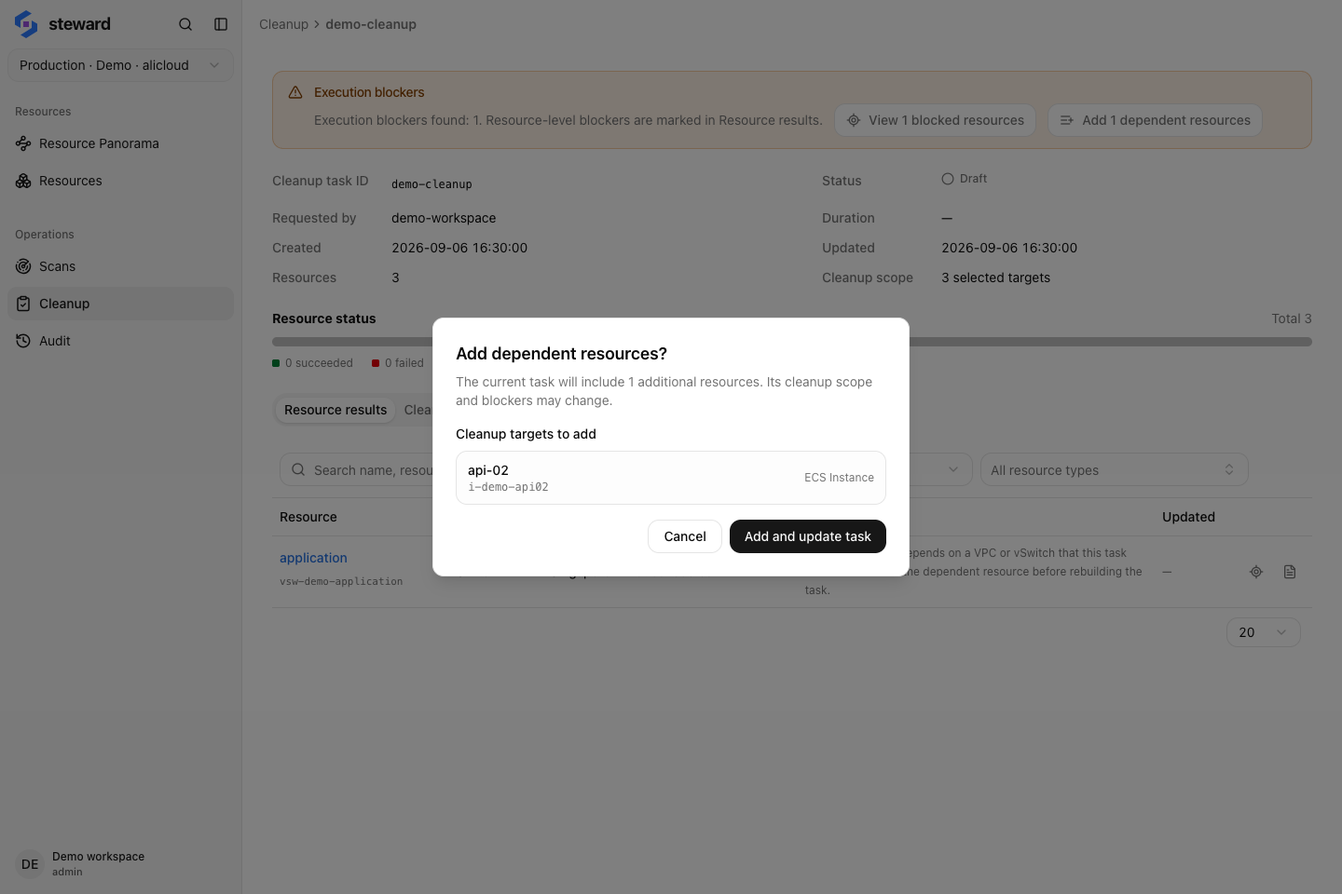
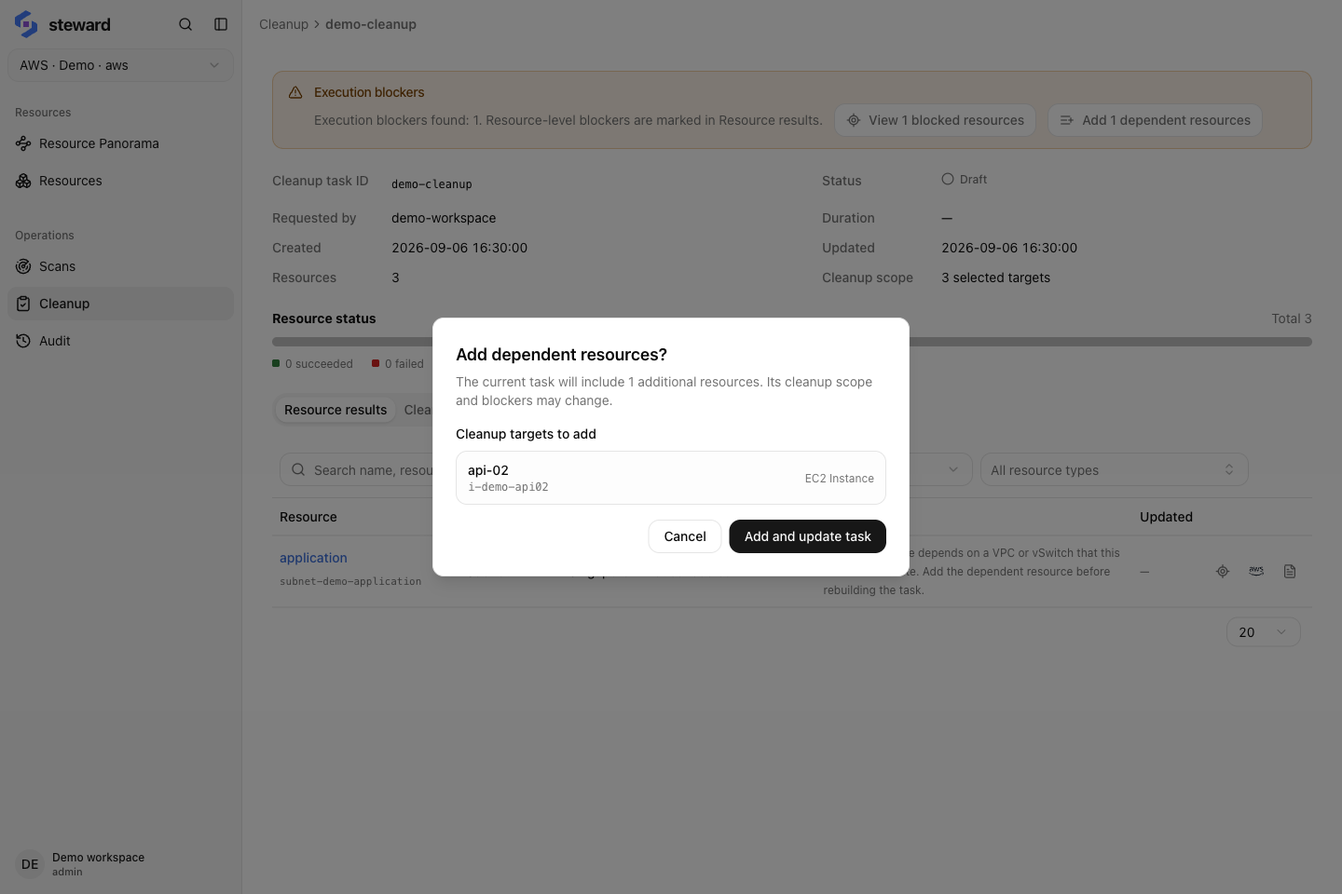
Localize cloud examples and documentation order

diff --git a/docs/content/en/tutorials/review-cleanup-dependencies.md b/docs/content/en/tutorials/review-cleanup-dependencies.md
@@ -6,7 +6,7 @@ navTitle: "Review cleanup dependencies"
 
 Removing an application can affect resources that other applications still use. This tutorial uses Steward's inventory, relationship graph, and cleanup review to examine that boundary. You will finish with a review decision; executing deletion is outside this exercise.
 
-The example uses Alibaba Cloud sample resources: two instances, `api-01` and `api-02`, share an application vSwitch. A load balancer named `public-gateway` is also selected for review. These are illustrative records, not resources Steward creates in your account.
+The example uses AWS sample resources: two instances, `api-01` and `api-02`, share an application subnet. A load balancer named `public-gateway` is also selected for review. These are illustrative records, not resources Steward creates in your account.
 
 ## 1. Establish a current inventory
 
@@ -20,9 +20,9 @@ Use native IDs to confirm the resources in the cloud console. Names alone are in
 
 Open a resource's Relationships view, or find it in Resource panorama and enable relationship lines. Trace connections to resources you intend to keep as well as those you intend to remove.
 
-<figure class="docs-figure"><a href="../../../assets/relationships-en.png" aria-label="Inspect the sample shared load balancer and security group"><img src="../../../assets/relationships-en.png" alt="Alibaba Cloud sample data: api-01 and api-02 share a load balancer and a security group" width="1440" height="960"></a><figcaption>Shared resources connect the intended cleanup target to an instance that may need to stay. This screenshot contains sample data.</figcaption></figure>
+<figure class="docs-figure"><a href="../../../assets/relationships-en.png" aria-label="Inspect the sample shared load balancer and security group"><img src="../../../assets/relationships-en.png" alt="AWS sample data: api-01 and api-02 share a load balancer and a security group" width="1440" height="960"></a><figcaption>Shared resources connect the intended cleanup target to an instance that may need to stay. This screenshot contains sample data.</figcaption></figure>
 
-In the example, removing `api-01` does not establish that its shared vSwitch or security group is unused. Open the other instance and verify whether its owner still needs it. Check provider-side state when the graph is incomplete or stale.
+In the example, removing `api-01` does not establish that its shared subnet or security group is unused. Open the other instance and verify whether its owner still needs it. Check provider-side state when the graph is incomplete or stale.
 
 **Check:** You have identified resources outside the intended deletion scope that still depend on a selected resource. Relationship lines come from scanned data and supported rules; missing lines do not establish independence.
 
@@ -32,15 +32,15 @@ Add the intended resources to the cleanup list and create a cleanup task. Creati
 
 Check actual resource IDs and planned actions. A broad account, project, region, or group target can resolve to more resources than its label suggests. Review retained and skipped resources, and resources managed through an owning controller or stack.
 
-The sample task selects `api-01`, `public-gateway`, and the `application` vSwitch. Unselected `api-02` still needs that vSwitch, so the vSwitch deletion is blocked.
+The sample task selects `api-01`, `public-gateway`, and the `application` subnet. Unselected `api-02` still needs that subnet, so the subnet deletion is blocked.
 
-<figure class="docs-figure"><a href="../../../assets/cleanup-dependency-en.svg" aria-label="Review the dependency outside the cleanup selection"><img src="../../../assets/cleanup-dependency-en.svg" alt="Unselected api-02 uses the selected application vSwitch and blocks its deletion" width="640" height="700"></a><figcaption>The dependency outside the selection changes what can be removed. Confirm the resource IDs in your actual task.</figcaption></figure>
+<figure class="docs-figure"><a href="../../../assets/cleanup-dependency-en.svg" aria-label="Review the dependency outside the cleanup selection"><img src="../../../assets/cleanup-dependency-en.svg" alt="Unselected api-02 uses the selected application subnet and blocks its deletion" width="640" height="700"></a><figcaption>The dependency outside the selection changes what can be removed. Confirm the resource IDs in your actual task.</figcaption></figure>
 
 ## 4. Make a scope decision
 
 | Finding | Decision to record |
 | --- | --- |
-| `api-02` must remain | Remove the shared vSwitch from the targets and review the updated plan. |
+| `api-02` must remain | Remove the shared subnet from the targets and review the updated plan. |
 | The owner confirms `api-02` can also be removed | Treat adding it as a new scope decision. Review its own dependencies and the expanded target list. |
 | The dependency or owner is unclear | Leave execution pending while you verify ownership and cloud-side state. |
 | A resource is retained or skipped | Record why it remains and whether it needs separate follow-up. |

diff --git a/docs/content/zh/tutorials/alicloud-resource-inventory.md b/docs/content/zh/tutorials/alicloud-resource-inventory.md
@@ -1,0 +1,63 @@
+---
+title: "使用 Steward 跨地域盘点阿里云资源"
+description: "核对阿里云账号与资源中心，扫描地域和全局资源，排查覆盖缺口，形成可验证的资源清单。"
+navTitle: "阿里云资源盘点"
+---
+
+一份可用的阿里云资源清单，应当能说明覆盖了哪个账号、哪些地域、何时发现资源，以及哪些读取失败。本教程使用 LoomX 的 Steward 完成这些核对，不执行资源清理。
+
+Steward 结合资源中心与云产品查询 API 发现资源。实际覆盖取决于支持的资源类型、地域、权限与资源中心的收集状态。资源总数不能单独证明整个账号已被完整盘点。
+
+## 开始之前
+
+- [安装并启动 Steward](../quick-start.md)，或打开 Steward Cloud 工作空间。
+- 选择一个获授权读取的阿里云账号，准备专用 RAM 身份的 AccessKey 或完整 STS 临时凭证。
+- 在阿里云控制台记录一个已有 ECS 实例的账号、地域与实例 ID，无需创建新资源。
+- 确认资源中心已开通，并核对[阿里云盘点权限](../alicloud.md)。先取得所选资源类型的读取权限即可。
+
+示例界面中的 `api-01` 是演示记录。实际操作时，请使用自己账号中已知的实例 ID。
+
+## 1. 确认连接的账号身份
+
+打开用户菜单 → 设置 → 云连接 → 添加连接，选择 **阿里云**，并选择与账号一致的中国站或国际站。站点决定账号体系，不是资源地域。
+
+输入 AccessKey ID 和 AccessKey Secret；使用 STS 时，另外填写同次签发的 Security Token 和到期时间。若界面提供浏览器授权，也可按授权流程连接。验证后检查账号身份，将连接命名为可辨认的名称，例如「阿里云 · 测试环境」。
+
+**结果核对：** 连接身份与已知资源所属账号一致，地域列表包含目标地域。连接验证成功，不代表已经拥有每种资源 API 的读取权限。
+
+## 2. 先扫描一个已知地域
+
+切换到该连接，打开 **扫描**，选择已知实例所在的地域，例如 `cn-hangzhou`，开始扫描。也可以从已知 VPC 或交换机开始，先验证一个较小的范围。
+
+检查目标状态与扫描日志。出现权限、限流或服务错误时，处理失败项后重试。任务已经结束但仍有失败目标时，清单依然存在缺口。
+
+打开 **资源**，搜索实例原生 ID，核对资源类型、地域、VPC、交换机、属性与最后发现时间。
+
+**结果核对：** 在正确连接和地域下找到已知实例，关键属性与阿里云控制台一致，相关扫描目标没有未处理的失败项。
+
+## 3. 扩大范围并记录覆盖情况
+
+首次核对通过后，再扫描其他已启用地域，以及所需的全局资源。地域资源与全局资源应分别检查；一个地域扫描成功不能代表整个账号已盘点完成。
+
+需要盘点另一个阿里云账号时，为它建立独立连接，再重复身份、扫描与资源核对。切换账号应新建连接；「替换凭证」用于维护原有身份的凭证。
+
+在团队现有记录工具中保存以下信息：
+
+| 账号 | 扫描范围 | 数据时间 | 已核对的样本 | 剩余缺口 |
+| --- | --- | --- | --- | --- |
+| 实际账号身份 | 地域列表，是否包含全局资源 | 扫描任务和最后发现时间 | 已在阿里云中核对的资源 ID | 失败类型、权限缺口或收集延迟 |
+
+**结果核对：** 能说明已覆盖的范围与仍未确认的部分，其他人可用相同账号和资源 ID 复查结果。
+
+## 排查缺失的阿里云资源
+
+| 现象 | 优先检查 |
+| --- | --- |
+| 提示 `ServiceNotEnabled` | 资源中心是否开通，以及首次资源收集是否完成。 |
+| 验证成功，扫描仍报权限错误 | 失败目标的具体 API 与 RAM Action；资源中心权限和产品读取权限都需要核对。 |
+| 某个实例缺失 | 当前账号、地域、资源类型和扫描范围是否包含该实例；用原生 ID 搜索。 |
+| 新资源或属性尚未更新 | 资源中心收集可能存在延迟；检查产品 API 错误并稍后重扫。 |
+| 部分地域没有数据 | 地域列表与目标范围、读取权限，以及该地域的扫描状态。 |
+| 关系图不完整 | 关联资源是否也在扫描范围内，相关类型是否受支持。 |
+
+详细凭证、资源中心与 API 要求见[阿里云集成参考](../alicloud.md)。查看网络位置可继续阅读[资源关系](../topology.md)。准备删除之前，先完成[清理依赖审查](./review-cleanup-dependencies.md)。

diff --git a/docs/content/en/tutorials/alicloud-resource-inventory.md b/docs/content/en/tutorials/alicloud-resource-inventory.md
@@ -1,0 +1,57 @@
+---
+title: "Inventory Alibaba Cloud resources across regions with Steward"
+description: "Verify account identity and Resource Center, scan regional and global resources, and record gaps in your Alibaba Cloud inventory."
+navTitle: "Alibaba Cloud inventory"
+---
+
+Use this provider-specific walkthrough when you manage Alibaba Cloud. For the default English example, follow [AWS resource inventory](./aws-resource-inventory.md).
+
+A useful inventory identifies the account, regions, observation time, and failed reads. Steward combines Resource Center with cloud product APIs; coverage depends on supported types, permissions, regions, and collection state. A resource count alone cannot establish complete account coverage.
+
+## Before you start
+
+- [Install and start Steward](../quick-start.md), or open a Steward Cloud workspace.
+- Prepare an authorized RAM identity's AccessKey pair or complete STS temporary credentials.
+- Record one existing ECS instance's account, region, and native ID from the Alibaba Cloud console. You do not need to create resources.
+- Confirm that Resource Center is enabled and check the [Alibaba Cloud inventory permissions](../alicloud.md). Read permissions are sufficient for this exercise.
+
+## 1. Verify the connected account
+
+Open the user menu → Settings → Cloud connections → Add connection. Choose **Alibaba Cloud** and the **China** or **International** account site. The account site is separate from the resource region.
+
+Enter the AccessKey ID and Secret. For STS, also enter the Security Token and expiration from the same issuance. Browser authorization is another option when available in the interface. Validate the identity and give the connection a recognizable name, such as “Alibaba Cloud · Test”.
+
+**Result check:** The connection belongs to the account that owns your known instance, and its region list includes the target region. Identity validation does not prove that every resource API is readable.
+
+## 2. Scan one known region
+
+Select the connection and open **Scans**. Start with the region containing your known instance, such as `cn-hangzhou`, or a known VPC or vSwitch for a smaller check.
+
+Review target status and logs. Resolve permission, throttling, or service errors before retrying. A finished task with failed targets still leaves inventory gaps.
+
+In **Resources**, search by the instance's native ID. Compare its type, region, VPC, vSwitch, properties, and last-seen time with the Alibaba Cloud console.
+
+**Result check:** The expected instance appears under the correct connection and region, key properties match, and relevant scan targets have no unresolved failures.
+
+## 3. Expand and record coverage
+
+After the first check succeeds, scan other enabled regions and the global resources you need. Check regional and global scopes separately; one successful regional scan cannot establish account-wide coverage.
+
+Use a separate connection for each additional account and repeat the identity and resource checks. Replacing credentials maintains the existing identity; changing accounts requires a new connection.
+
+Record the account, included regions, global coverage, scan time, verified resource IDs, and outstanding gaps in your team's existing record system.
+
+**Result check:** Another operator can reproduce the check and distinguish verified coverage from failed reads or collection delays.
+
+## Troubleshoot missing resources
+
+| Symptom | Check first |
+| --- | --- |
+| `ServiceNotEnabled` | Resource Center activation and completion of its initial collection. |
+| Validation succeeds but scans report permission errors | The failed API and RAM action; check both Resource Center and product read permissions. |
+| An instance is absent | Account, region, selected type, and scan scope; search by native ID. |
+| A new resource or property is missing | Resource Center collection delay, product API errors, and a later scan. |
+| A region has no data | Region discovery, selected scope, read permissions, and target status. |
+| Relationships are incomplete | Whether related resources were scanned and their types are supported. |
+
+See the [Alibaba Cloud integration reference](../alicloud.md) for credentials and APIs, [resource relationships](../topology.md) for network context, and [cleanup dependency review](./review-cleanup-dependencies.md) before considering deletion.

diff --git a/docs/README.md b/docs/README.md
@@ -5,7 +5,7 @@ The public guide is at [loomx.ai/steward/docs](https://loomx.ai/steward/docs). T
 ## Edit the guide
 
 - Edit one Markdown file per chapter and language in `content/en` and `content/zh`.
-- `site.json` defines the product name, supported languages, and ordered navigation. Entries are chapter paths or sections with a translated `label` and an `items` array of chapter paths. Add every chapter and section label in every supported language. Navigation order also determines previous/next links; list each chapter once.
+- `site.json` defines the product name, supported languages, and ordered navigation. Entries are chapter paths or sections with a translated `label` and an `items` array of chapter paths. Add every chapter and section label in every supported language. A section may add `itemsByLocale` (for example, `{"en":["aws","alicloud","gcp","azure"]}`) to reorder the same chapters for one language. This order also determines previous/next links; list each chapter once.
 - Use relative Markdown links, such as `./connections.md` or `../index.md#start`. The site resolves them within the selected product, version, and language.
 - Store images in `assets/` and link to them relative to the Markdown file. Keep screenshots at their original dimensions and include descriptive alt text and a sample-data caption.
 - A standalone `<span id="stable-id"></span>` before a heading preserves an existing anchor. The renderer applies that ID to the heading and the page's table of contents.
@@ -23,9 +23,9 @@ Submit documentation changes as a pull request to this repository after running 
 
 ## Screenshots
 
-The existing images were captured from the unmodified Steward frontend at commit `4a5e9181d8b418dc02049260208d0230de76e871`, at 1440 × 960, in English and Simplified Chinese. `screenshots/source.json` records source provenance and hashes. The HTTP fixtures contain nine synthetic Alibaba Cloud resources and require no cloud credentials.
+The images were captured from the unmodified Steward frontend at 1440 × 960. Chinese images use commit `4a5e9181d8b418dc02049260208d0230de76e871`; the refreshed English images use commit `0c4f54b558a64cb04d0a9de84e96f517faeb5001`. `screenshots/source.json` records source provenance and hashes. The HTTP fixtures contain nine synthetic resources: AWS in English and Alibaba Cloud in Chinese and require no cloud credentials.
 
-After installing `web/` dependencies, run `node docs/screenshots/server.mjs`. To reproduce the original UI revision, set `STEWARD_SOURCE` to a checkout of that commit. Open the relevant path at `http://127.0.0.1:5859` with `?locale=en&theme=light` or `?locale=zh&theme=light`:
+After installing `web/` dependencies, run `DEMO_LOCALE=en node docs/screenshots/server.mjs` for AWS, or `node docs/screenshots/server.mjs` for Alibaba Cloud. To reproduce the original UI revision, set `STEWARD_SOURCE` to a checkout of the corresponding language’s commit. Open the relevant path at `http://127.0.0.1:5859` with `?locale=en&theme=light` or `?locale=zh&theme=light`:
 
 | Image | Path and state |
 | --- | --- |
@@ -39,4 +39,4 @@ Wait for the data to render. Keep the actual UI, review each language separately
 
 ## Concept diagrams
 
-`assets/scan-data-flow-{en,zh}.svg` explains how selected-scope scans supply inventory and relationship views. `assets/cleanup-dependency-{en,zh}.svg` explains the `api-02` vSwitch blocker using the same resource identities as the screenshot fixture. These are original, editable SVG diagrams, not application screenshots. Keep their accessible titles, descriptions, visible labels, and nearby prose consistent when the workflow changes.
+`assets/scan-data-flow-{en,zh}.svg` explains how selected-scope scans supply inventory and relationship views. `assets/cleanup-dependency-{en,zh}.svg` explains the `api-02` subnet/vSwitch blocker using the same resource identities as the screenshot fixture. These are original, editable SVG diagrams, not application screenshots. Keep their accessible titles, descriptions, visible labels, and nearby prose consistent when the workflow changes.

diff --git a/docs/content/en/cleanup.md b/docs/content/en/cleanup.md
@@ -20,17 +20,17 @@ Account, project, region, and group targets can resolve to many resources. Check
 -   Inspect dependencies that still use a target, and resources deleted through their owning controller.
 -   Check skipped and retained resources, including residuals that may continue billing.
 
-### Example: an unselected instance still uses the vSwitch
+### Example: an unselected instance still uses the subnet
 
-The sample task selects `api-01`, `public-gateway`, and the `application` vSwitch. Another instance, `api-02`, is outside the selection but still uses that vSwitch.
+The sample task selects `api-01`, `public-gateway`, and the `application` subnet. Another instance, `api-02`, is outside the selection but still uses that subnet.
 
-<figure class="docs-figure"><a href="../../assets/cleanup-dependency-en.svg" target="_blank" rel="noreferrer" aria-label="How api-02 outside the selection blocks vSwitch deletion (open full size)"><img src="../../assets/cleanup-dependency-en.svg" alt="api-01, public-gateway, and the application vSwitch are selected for cleanup. Unselected api-02 still uses the vSwitch, blocking its deletion." width="640" height="700"></a><figcaption>The diagram shows the resources involved in this blocker. Arrows indicate use; dependencies outside the selection also affect the plan.</figcaption></figure>
+<figure class="docs-figure"><a href="../../assets/cleanup-dependency-en.svg" target="_blank" rel="noreferrer" aria-label="How api-02 outside the selection blocks subnet deletion (open full size)"><img src="../../assets/cleanup-dependency-en.svg" alt="api-01, public-gateway, and the application subnet are selected for cleanup. Unselected api-02 still uses the subnet, blocking its deletion." width="640" height="700"></a><figcaption>The diagram shows the resources involved in this blocker. Arrows indicate use; dependencies outside the selection also affect the plan.</figcaption></figure>
 
-If `api-02` must stay, remove the vSwitch target. If it should also be deleted, add the dependency and review the updated task. Expanding the selection is a new scope decision; do not add a resource just to clear a blocker.
+If `api-02` must stay, remove the subnet target. If it should also be deleted, add the dependency and review the updated task. Expanding the selection is a new scope decision; do not add a resource just to clear a blocker.
 
 Open the task's blocker details to check the resource IDs and relationship evidence. The actual interface below shows the same sample data:
 
-<figure class="docs-figure"><a href="../../assets/cleanup-en.png" target="_blank" rel="noreferrer" aria-label="The application vSwitch is still used by api-02 outside the cleanup selection (open full size)"><img src="../../assets/cleanup-en.png" alt="The application vSwitch is still used by api-02 outside the cleanup selection" width="1440" height="960"></a><figcaption>The application vSwitch is still used by api-02 outside the cleanup selection <span>· Sample data · click to enlarge</span></figcaption></figure>
+<figure class="docs-figure"><a href="../../assets/cleanup-en.png" target="_blank" rel="noreferrer" aria-label="The application subnet is still used by api-02 outside the cleanup selection (open full size)"><img src="../../assets/cleanup-en.png" alt="The application subnet is still used by api-02 outside the cleanup selection" width="1440" height="960"></a><figcaption>The application subnet is still used by api-02 outside the cleanup selection <span>· Sample data · click to enlarge</span></figcaption></figure>
 
 <aside class="docs-note">Incomplete scan coverage is a warning and may not prevent execution. Scan the relevant scope first; zero blockers does not prove every dependency has been discovered.</aside>
 

diff --git a/docs/content/en/tutorials/first-inventory.md b/docs/content/en/tutorials/first-inventory.md
@@ -8,21 +8,21 @@ navTitle: "First resource inventory"
 
 This tutorial walks through a small inventory: connect a cloud account, scan one region, find a known resource, and inspect its network placement and related resources. By the end, you should be able to identify its account, explain when the data was observed, and name dependencies that still need verification.
 
-The steps connect, scan, and inspect resources. Screenshots use Alibaba Cloud sample data; substitute your actual region and resource ID when working in your own account. Steward does not automatically create the example resources such as `api-01`.
+The steps connect, scan, and inspect resources. Screenshots use AWS sample data; substitute your actual region and resource ID when working in your own account. Steward does not automatically create the example resources such as `api-01`.
 
 ## Before you start
 
 You will need:
 
 - Steward running through the [quick start](../quick-start.md), or an available Steward Cloud workspace.
-- An Alibaba Cloud, AWS, Google Cloud, or Azure account you can access, with credentials that have the required read permissions.
-- A regional resource you know exists and that Steward supports discovering, such as a cloud instance. Record its **region, resource type, and native resource ID**.
+- An AWS, Alibaba Cloud, Google Cloud, or Azure account you can access, with credentials that have the required read permissions.
+- A regional resource you know exists and that Steward supports discovering, such as an EC2 instance. Record its **region, resource type, and native resource ID**.
 
 Choose a small scope you know well. You do not need to create cloud resources or grant deletion permissions for this tutorial. Without a cloud account, explore the sample demo on the [LoomX homepage](https://loomx.ai/) to learn the inventory and relationship views; a real scan requires your own cloud connection.
 
 ## 1. Add and select a cloud connection
 
-Open the user menu → Settings → Cloud connections, add a connection, and validate its credentials. Give it a recognizable name and check that the discovered regions match your account. See [Cloud connections](../connections.md#credentials) for credential types.
+Open the user menu → Settings → Cloud connections, choose **AWS**, add a connection, and validate its credentials. Give it a recognizable name and check that the discovered regions match your account. See [Cloud connections](../connections.md#credentials) for credential types.
 
 Return to the main interface and select this connection.
 
@@ -54,7 +54,7 @@ Compare the record with your cloud console or the information you recorded earli
 
 ## 4. Inspect network placement and relationships
 
-For a resource in a VPC, use View in Resource panorama from its details. Check the region, VPC, and vSwitch or subnet. Enable Show relationship lines in the canvas toolbar, or open Relationships in the resource details.
+For a resource in a VPC, use View in Resource panorama from its details. Check the region, VPC, and subnet. Enable Show relationship lines in the canvas toolbar, or open Relationships in the resource details.
 
 <figure class="docs-figure"><a href="../../../assets/relationships-en.png" target="_blank" rel="noreferrer" aria-label="Two sample instances share a load balancer and security group (open full size)"><img src="../../../assets/relationships-en.png" alt="In the sample graph, public-gateway routes to api-01 and api-02, which both use the application-policy security group" width="1440" height="960"></a><figcaption>The sample instances share a load balancer and security group. Inspect shared relationships before deciding the scope of any later cleanup review.</figcaption></figure>
 

diff --git a/docs/content/en/intro.md b/docs/content/en/intro.md
@@ -4,7 +4,7 @@ description: "Understand how cloud connections, scans, resource relationships, a
 navTitle: "What is Steward?"
 ---
 
-Steward is a cloud resource inventory and cleanup tool. It brings existing resources into one interface so you can see what is running, how resources relate, and what a cleanup would affect. It supports Alibaba Cloud, AWS, Google Cloud (GCP), and Microsoft Azure. You can self-host it or sign up for Steward Cloud.
+Steward is a cloud resource inventory and cleanup tool. It brings existing resources into one interface so you can see what is running, how resources relate, and what a cleanup would affect. It supports AWS, Alibaba Cloud, Google Cloud (GCP), and Microsoft Azure. You can self-host it or sign up for Steward Cloud.
 
 Use it for three kinds of work:
 
@@ -30,9 +30,9 @@ Names are convenient labels, but they can change or be reused. Identify a resour
 
 | Concept | Question it answers | Example |
 | --- | --- | --- |
-| Cloud connection | Which identity and account are you using? | An Alibaba Cloud, AWS, Google Cloud, or Azure connection |
+| Cloud connection | Which identity and account are you using? | An AWS, Alibaba Cloud, Google Cloud, or Azure connection |
 | Region | Where is the resource? | `ap-southeast-1` |
-| Resource type | What kind of resource is it? | An ECS instance, VPC, or security group |
+| Resource type | What kind of resource is it? | An EC2 instance, VPC, or security group |
 | Native resource ID | Which specific resource is this? | `i-demo-api01` |
 | Scan scope | What does this scan actually inspect? | One region or a VPC within it |
 
@@ -55,9 +55,9 @@ A successful scan of a small scope does not prove that the entire account has be
 
 **Resource panorama** helps you locate resources by account, region, and network structure. **Relationship lines** show associations recognized by the current rules, such as a load balancer routing to instances or an instance using a security group.
 
-Sharing a VPC or vSwitch describes network placement. Assess specific dependencies using resource properties, relationship lines, and cleanup checks together. The absence of a line does not establish the absence of a dependency.
+Sharing a VPC or subnet describes network placement. Assess specific dependencies using resource properties, relationship lines, and cleanup checks together. The absence of a line does not establish the absence of a dependency.
 
-<figure class="docs-figure"><a href="../../assets/topology-en.png" target="_blank" rel="noreferrer" aria-label="Steward organizes resources by their network placement (open full size)"><img src="../../assets/topology-en.png" alt="Steward's VPC panorama groups application instances and databases into different vSwitches" width="1440" height="960"></a><figcaption>Sample application instances and databases occupy different vSwitches. Network grouping locates resources; relationship lines explain further associations.</figcaption></figure>
+<figure class="docs-figure"><a href="../../assets/topology-en.png" target="_blank" rel="noreferrer" aria-label="Steward organizes resources by their network placement (open full size)"><img src="../../assets/topology-en.png" alt="Steward's VPC panorama groups application instances and databases into different subnets" width="1440" height="960"></a><figcaption>Sample application instances and databases occupy different subnets. Network grouping locates resources; relationship lines explain further associations.</figcaption></figure>
 
 [Resource relationships](./topology.md) shows how to navigate through network scopes and then focus on one resource's connections.
 

diff --git a/docs/content/en/topology.md b/docs/content/en/topology.md
@@ -10,17 +10,17 @@ navTitle: "Resource relationships"
 
 Open Resource panorama, choose a region, then a VPC. Global and region-public resources have separate entries. Use the breadcrumbs to move back up.
 
-<figure class="docs-figure"><a href="../../assets/topology-en.png" target="_blank" rel="noreferrer" aria-label="The production VPC: application and database resources occupy separate vSwitches (open full size)"><img src="../../assets/topology-en.png" alt="The production VPC: application and database resources occupy separate vSwitches" width="1440" height="960"></a><figcaption>The production VPC: application and database resources occupy separate vSwitches <span>· Sample data · click to enlarge</span></figcaption></figure>
+<figure class="docs-figure"><a href="../../assets/topology-en.png" target="_blank" rel="noreferrer" aria-label="The production VPC: application and database resources occupy separate subnets (open full size)"><img src="../../assets/topology-en.png" alt="The production VPC: application and database resources occupy separate subnets" width="1440" height="960"></a><figcaption>The production VPC: application and database resources occupy separate subnets <span>· Sample data · click to enlarge</span></figcaption></figure>
 
-The VPC view arranges resources by vSwitch. Open grouped nodes to inspect their members; search by name or ID to locate a resource. Select one to read its properties or add it to the cleanup list.
+The VPC view arranges resources by subnet. Open grouped nodes to inspect their members; search by name or ID to locate a resource. Select one to read its properties or add it to the cleanup list.
 
 <span id="relationships"></span>
 
 ## Show relationship lines
 
-Choose Show relationship lines in the canvas toolbar. Here, public-gateway routes to two ECS instances, which share the application-policy security group.
+Choose Show relationship lines in the canvas toolbar. Here, public-gateway routes to two EC2 instances, which share the application-policy security group.
 
-<figure class="docs-figure"><a href="../../assets/relationships-en.png" target="_blank" rel="noreferrer" aria-label="Two ECS instances share a load balancer and security group (open full size)"><img src="../../assets/relationships-en.png" alt="Two ECS instances share a load balancer and security group" width="1440" height="960"></a><figcaption>Two ECS instances share a load balancer and security group <span>· Sample data · click to enlarge</span></figcaption></figure>
+<figure class="docs-figure"><a href="../../assets/relationships-en.png" target="_blank" rel="noreferrer" aria-label="Two EC2 instances share a load balancer and security group (open full size)"><img src="../../assets/relationships-en.png" alt="Two EC2 instances share a load balancer and security group" width="1440" height="960"></a><figcaption>Two EC2 instances share a load balancer and security group <span>· Sample data · click to enlarge</span></figcaption></figure>
 
 To focus on one resource, open its detail page and switch to Relationships.
 

diff --git a/README.md b/README.md
@@ -24,14 +24,14 @@
   English / <a href="README.zh-CN.md">简体中文</a>
 </p>
 
-Steward by LoomX is an open-source tool for multi-cloud resource inventory, dependency visualization, and reviewed cleanup. It brings [Alibaba Cloud](https://loomx.ai/steward/docs/latest/en/alicloud/), [AWS](https://loomx.ai/steward/docs/latest/en/aws/), [Google Cloud](https://loomx.ai/steward/docs/latest/en/gcp/), and [Microsoft Azure](https://loomx.ai/steward/docs/latest/en/azure/) into one interface, so you can see what is running and review what a cleanup would affect.
+Steward by LoomX is an open-source tool for multi-cloud resource inventory, dependency visualization, and reviewed cleanup. It brings [AWS](https://loomx.ai/steward/docs/latest/en/aws/), [Alibaba Cloud](https://loomx.ai/steward/docs/latest/en/alicloud/), [Google Cloud](https://loomx.ai/steward/docs/latest/en/gcp/), and [Microsoft Azure](https://loomx.ai/steward/docs/latest/en/azure/) into one interface, so you can see what is running and review what a cleanup would affect.
 
 Get started in your browser with [Steward Cloud](https://steward.console.loomx.ai), or [install Steward](https://loomx.ai/steward/docs/latest/en/installation/) to run it yourself.
 
 <p align="center">
-  <a href="https://loomx.ai/steward/docs/latest/en/topology/"><img src="docs/assets/relationships-en.png" alt="Steward resource panorama showing instances, a load balancer, a security group, and their relationships in a sample Alibaba Cloud VPC" width="960"></a>
+  <a href="https://loomx.ai/steward/docs/latest/en/topology/"><img src="docs/assets/relationships-en.png" alt="Steward resource panorama showing instances, a load balancer, a security group, and their relationships in a sample AWS VPC" width="960"></a>
   <br>
-  <sub>Resource panorama · Alibaba Cloud sample data</sub>
+  <sub>Resource panorama · AWS sample data</sub>
 </p>
 
 ## What Steward does

diff --git a/docs/content/zh/tutorials.md b/docs/content/zh/tutorials.md
@@ -1,11 +1,11 @@
 ---
 title: "Steward 教程"
-description: "跟随 Steward 教程完成云资源盘点、AWS 覆盖核对与清理前的依赖审查。"
+description: "跟随 Steward 教程完成云资源盘点、阿里云覆盖核对与清理前的依赖审查。"
 navTitle: "教程概览"
 ---
 
 <div class="docs-start-links"><a href="./quick-start.md"><strong>快速开始</strong><span aria-hidden="true">→</span><span>启动本地服务，连接一个云账号</span></a><a href="./tutorials/first-inventory.md"><strong>第一次资源盘点</strong><span aria-hidden="true">→</span><span>选择已知资源，核对扫描结果和依赖</span></a></div>
 
-<div class="docs-start-links"><a href="./tutorials/aws-resource-inventory.md"><strong>AWS 资源盘点</strong><span aria-hidden="true">→</span><span>核对账号、地域、权限与缺失资源</span></a><a href="./tutorials/review-cleanup-dependencies.md"><strong>清理依赖审查</strong><span aria-hidden="true">→</span><span>检查共享资源和阻断项，不执行删除</span></a></div>
+<div class="docs-start-links"><a href="./tutorials/alicloud-resource-inventory.md"><strong>阿里云资源盘点</strong><span aria-hidden="true">→</span><span>核对账号、地域、权限与缺失资源</span></a><a href="./tutorials/review-cleanup-dependencies.md"><strong>清理依赖审查</strong><span aria-hidden="true">→</span><span>检查共享资源和阻断项，不执行删除</span></a></div>
 
 还没有安装？[安装 Steward →](./installation.md)

diff --git a/docs/content/zh/index.md b/docs/content/zh/index.md
@@ -4,7 +4,7 @@ description: "学习使用 LoomX 的 Steward：盘点阿里云、AWS、Azure 与
 navTitle: "文档首页"
 ---
 
-<div class="docs-start-links docs-entry-links"><a href="./installation.md"><strong>安装 Steward</strong><span aria-hidden="true">→</span><span>选择系统，安装或下载</span></a><a href="./tutorials.md"><strong>动手教程</strong><span aria-hidden="true">→</span><span>盘点 AWS 资源，审查清理依赖</span></a><a href="./guides.md"><strong>使用文档</strong><span aria-hidden="true">→</span><span>查阅连接、扫描、关系与清理操作</span></a></div>
+<div class="docs-start-links docs-entry-links"><a href="./installation.md"><strong>安装 Steward</strong><span aria-hidden="true">→</span><span>选择系统，安装或下载</span></a><a href="./tutorials.md"><strong>动手教程</strong><span aria-hidden="true">→</span><span>盘点阿里云资源，审查清理依赖</span></a><a href="./guides.md"><strong>使用文档</strong><span aria-hidden="true">→</span><span>查阅连接、扫描、关系与清理操作</span></a></div>
 
 ## 认识 Steward
 

diff --git a/docs/content/en/index.md b/docs/content/en/index.md
@@ -14,7 +14,7 @@ Steward by LoomX is an open-source multi-cloud resource inventory and cleanup to
 
 ## Connect a cloud platform
 
-<div class="docs-cloud-links"><a href="./alicloud.md"><strong>Alibaba Cloud</strong><span>RAM, STS, and browser authorization</span></a><a href="./aws.md"><strong>AWS</strong><span>IAM and resource discovery</span></a><a href="./gcp.md"><strong>Google Cloud</strong><span>Projects and service accounts</span></a><a href="./azure.md"><strong>Microsoft Azure</strong><span>Subscriptions and service principals</span></a></div>
+<div class="docs-cloud-links"><a href="./aws.md"><strong>AWS</strong><span>IAM and resource discovery</span></a><a href="./alicloud.md"><strong>Alibaba Cloud</strong><span>RAM, STS, and browser authorization</span></a><a href="./gcp.md"><strong>Google Cloud</strong><span>Projects and service accounts</span></a><a href="./azure.md"><strong>Microsoft Azure</strong><span>Subscriptions and service principals</span></a></div>
 
 ## Featured documentation
 
